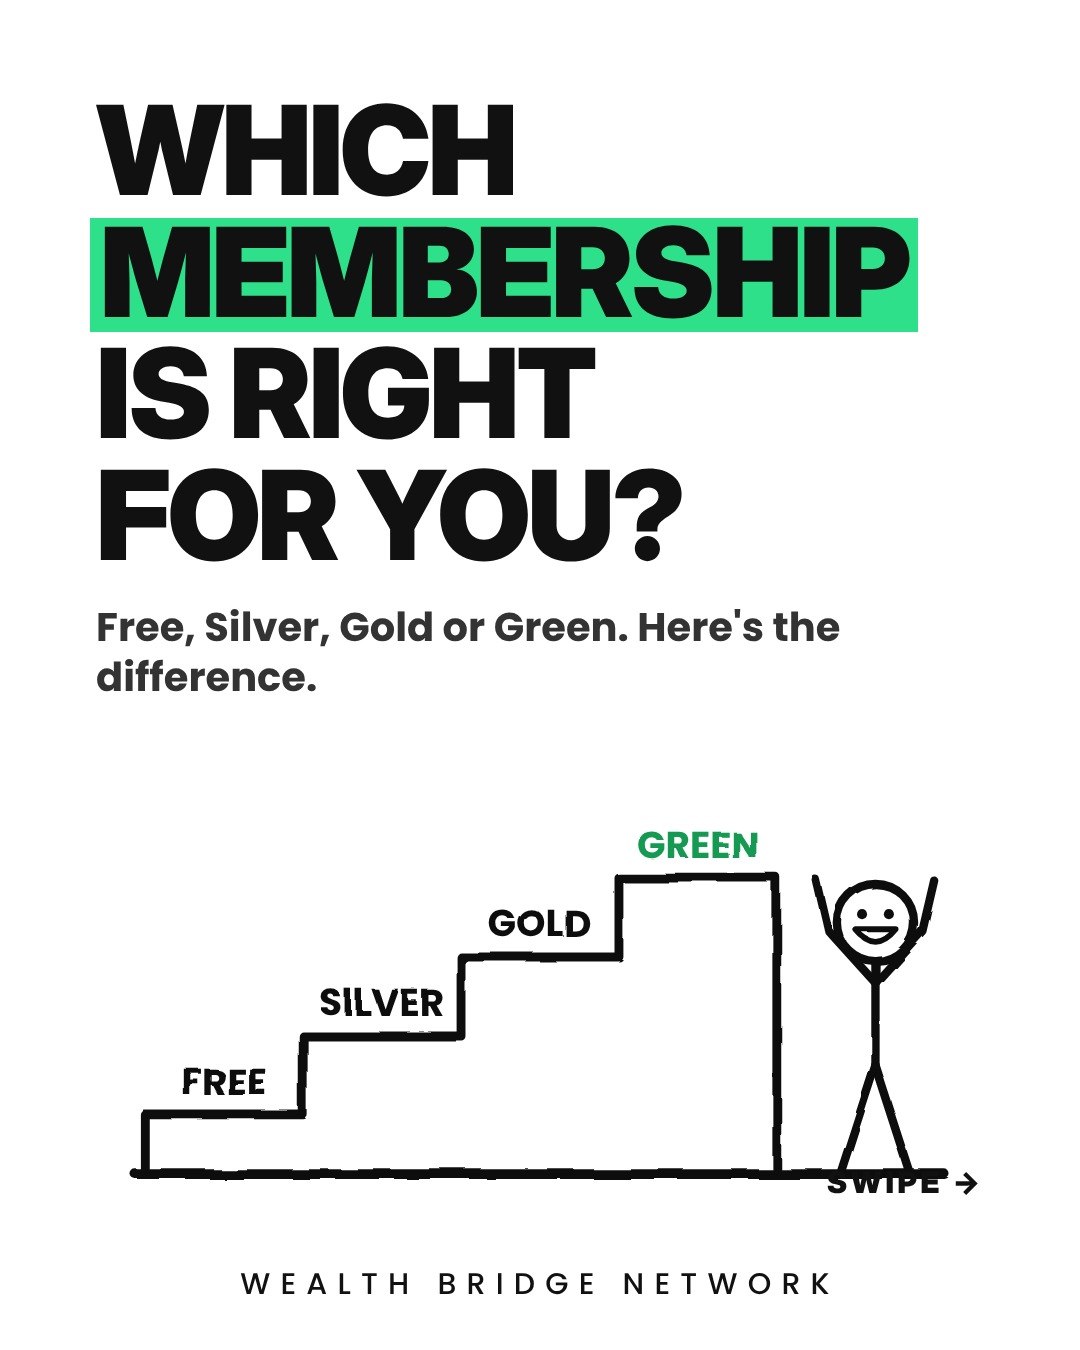
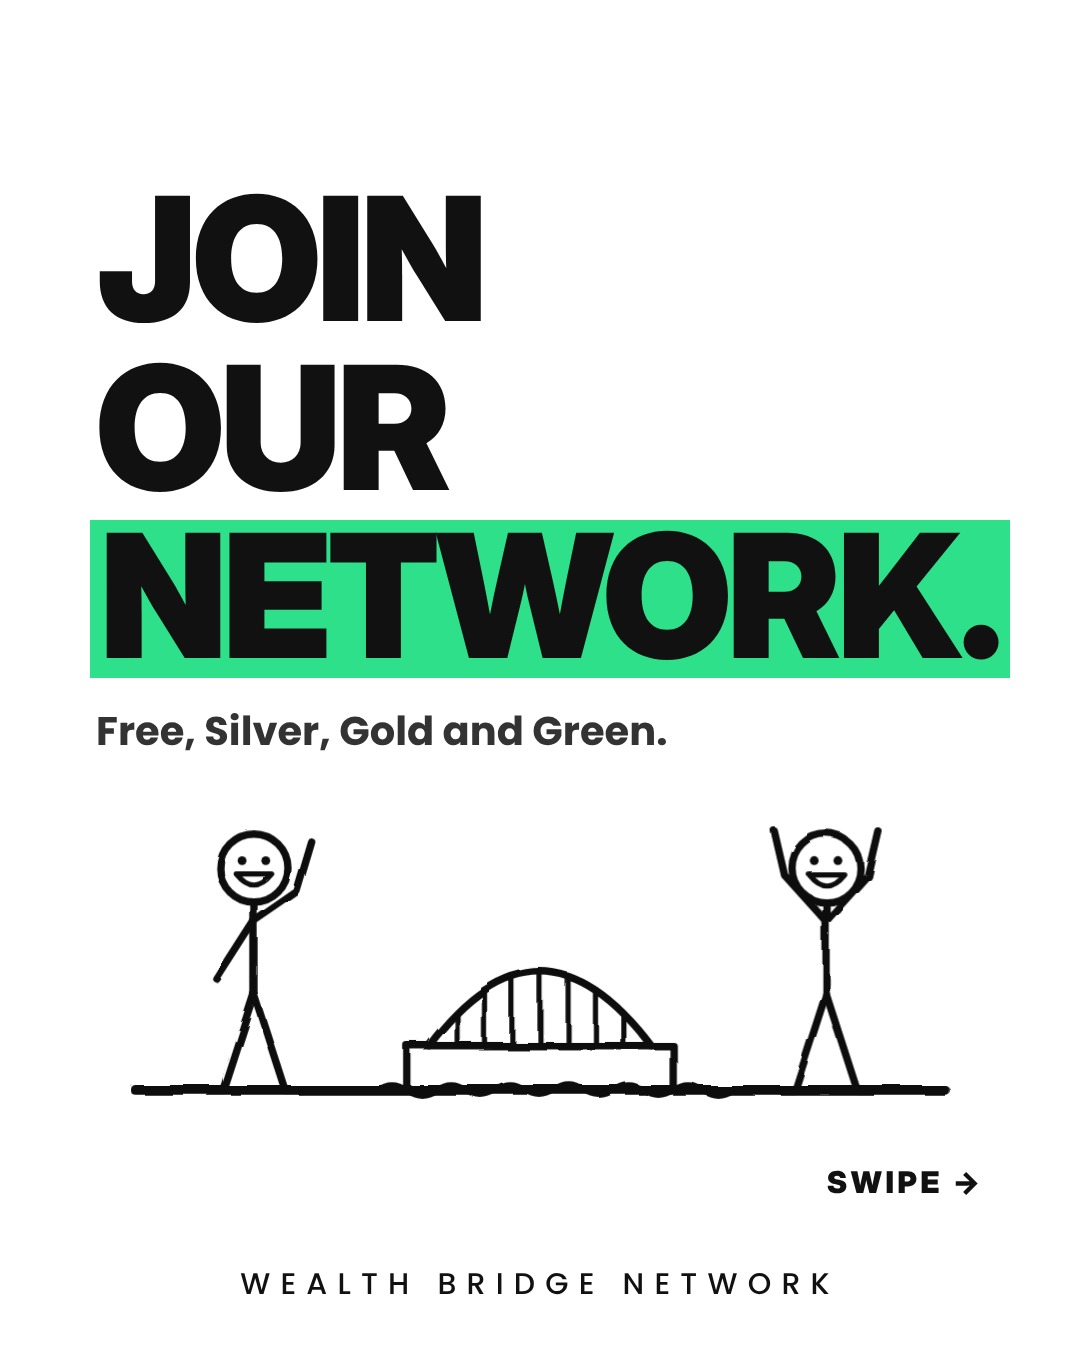
Membership carousel: 6 slides, big bold tier names (Join our network, Free, Silver, Gold, Green coming soon)
Claude-Session: https://claude.ai/code/session_01XWHiAw1FC92SEhPtnn4Xv2

Changed region(s): [[0.0611, 0.0622, 0.9472, 0.56], [0.1222, 0.5911, 0.8861, 0.8711]]

diff --git a/content/membership.py b/content/membership.py
@@ -41,38 +41,30 @@ def icons(*parts):
     return ground(40, 860, 250) + "".join(parts)
 
 
-TIER = dict(hd=84, fs=58, **{"is": 54}, ah=330)
+SM = {"is": 40}   # small perk text under the big tier name
 
 POSTS = [
-dict(id="m1-memberships", pillar="Membership", title="Which membership is right for you?",
- caption=caption("Free, Silver, Gold or Green: which Wealth Bridge membership is right for you?",
-                 "Silver ($12.99/mo): apartment listings, weekly newsletter, access to brand deals, jobs and universities, and member-only webinars. Gold ($34.99/mo): everything in Silver plus A.I. tools, early access to ALL opportunities, first in line for brand deals and jobs, vetted manufacturers and priority support. Green: free for approved companies. Tap the link in bio to join.",
+dict(id="m1-memberships", pillar="Membership", title="Join our network",
+ caption=caption("Join the Wealth Bridge Network: Free, Silver, Gold and Green.",
+                 "Free: create an account, browse and get the newsletter. Silver ($12.99/mo): apartment listings, brand deals, jobs and universities, and member-only webinars. Gold ($34.99/mo): everything in Silver plus A.I. tools, early access to ALL opportunities and vetted manufacturers. Green (coming soon): list your company. Tap the link in bio to join.",
                  "#ugccreator #branddeals #creatoreconomy #membership"),
  slides=[
- dict(hook="Which\n*membership*\nis right\nfor you?", hs=124, swipe=True, kick="Free, Silver, Gold or Green. Here's the difference.",
-      scene=ground(40, 860, 440) + _p("M50,440 L50,380 L210,380 L210,300 L370,300 L370,220 L530,220 L530,140 L690,140 L690,440", 9)
-      + _t(130, 360, "FREE", 38, 900) + _t(290, 280, "SILVER", 38, 900) + _t(450, 200, "GOLD", 38, 900) + _t(610, 120, "GREEN", 38, 900, G)
-      + figure(790, 440, 0.85, "up", "grin", flip=True), vh=460),
- dict(head="Free ($0):", text=["Every free member gets:"],
-      items=["A free account", "Weekly China tips", "Upgrade any time"],
-      scene=icons(phone(170, 250, 0.75, "WBN"), board(450, 250, 0.6, "TIPS"), check(720, 230, 1.1, True)), vh=260, **TIER),
- dict(head="Silver ($12.99/mo):", text=["Normally $25. Members get:"],
+ dict(hook="Join\nour\n*network.*", hs=172, swipe=True, kick="Free, Silver, Gold and Green.",
+      scene=ground(40, 860, 300) + figure(160, 300, 0.75, "wave", "grin") + bridge(450, 300, 0.75, 360) + figure(740, 300, 0.75, "up", "grin", flip=True), vh=320),
+ dict(hook="*Free*\nmembership", hs=128, kick="$0",
+      items=["Create your account", "Browse the network", "Access to the newsletter", "Limited features"], **SM,
+      scene=icons(phone(200, 250, 0.6, "WBN"), magnifier(420, 250, 0.7), board(640, 250, 0.5, "NEWS")), vh=260, ah=260),
+ dict(hook="*Silver*\nmembership", hs=128, kick="$12.99/month (normally $25)",
       items=["Apartment listings + maid, chef & nanny", "Weekly newsletter & updates", "Brand deals, jobs & universities",
-             "Member-only webinars", "Silver symbol on your profile"],
-      scene=icons(door(130, 250, 0.6), board(330, 250, 0.55, "NEWS"), magnifier(520, 250, 0.8), laptop(700, 250, 0.55, "LIVE"), tag(840, 250, 0.6, "S")), vh=260,
-      **{**TIER, "is": 50, "fs": 54, "hd": 80}),
- dict(head="Gold ($34.99/mo):", text=["Normally $45. Members get:"],
+             "Member-only webinars", "Silver symbol on your profile"], **SM,
+      scene=icons(door(160, 250, 0.5), board(360, 250, 0.45, "NEWS"), laptop(580, 250, 0.45, "LIVE"), tag(780, 250, 0.5, "S")), vh=260, ah=230),
+ dict(hook="*Gold*\nmembership", hs=128, kick="$34.99/month (normally $45)",
       items=["Everything in Silver", "*A.I. tools*", "Early access to ALL opportunities", "First in line for brand deals & jobs",
-             "Vetted manufacturers", "Priority support & events", "Gold symbol on your profile"],
-      scene=icons(handshake_hands(130, 200, 0.55), chip(330, 225, 0.65), factory(520, 250, 0.42), trophy(690, 250, 0.65), tag(845, 250, 0.55, "G")), vh=260,
-      **{**TIER, "is": 46, "fs": 54, "hd": 80}),
- dict(head="Green (companies):", text=["Free. Approved companies get:"],
-      items=["Their own application track", "The green symbol", "A green badge on our marketing"],
-      scene=icons(factory(180, 250, 0.5), board(450, 250, 0.6, "APPLY"), check(640, 230, 1.0, True), tag(800, 250, 0.65, "G")), vh=260,
-      **TIER),
- dict(head="How to join:", hd=84,
-      items=["Tap the *link in bio*", "Sign up *free*", "Upgrade to *Silver* or *Gold*", "Companies: apply for *Green*"], **{"is": 58},
-      scene=icons(phone(170, 250, 0.75, "JOIN"), arrow(280, 150, 400, 150, -50), check(500, 230, 1.0, True), figure(740, 250, 0.6, "up", "grin", flip=True)), vh=260, ah=330),
- cta("Ready to cross the bridge?"),
+             "Vetted manufacturers", "Priority support & events", "Gold symbol on your profile"], **{"is": 36},
+      scene=icons(chip(180, 225, 0.55), factory(420, 250, 0.38), trophy(640, 250, 0.55), tag(820, 250, 0.5, "G")), vh=260, ah=200),
+ dict(hook="*Green*\nmembership", hs=128, kick="Coming soon · for companies",
+      items=["List your company", "Free for approved companies", "Green symbol on your company"], **SM,
+      scene=icons(factory(200, 250, 0.45), board(450, 250, 0.55, "SOON"), tag(700, 250, 0.6, "✓")), vh=260, ah=260),
+ cta("Ready to join?"),
 ]),
 ]
